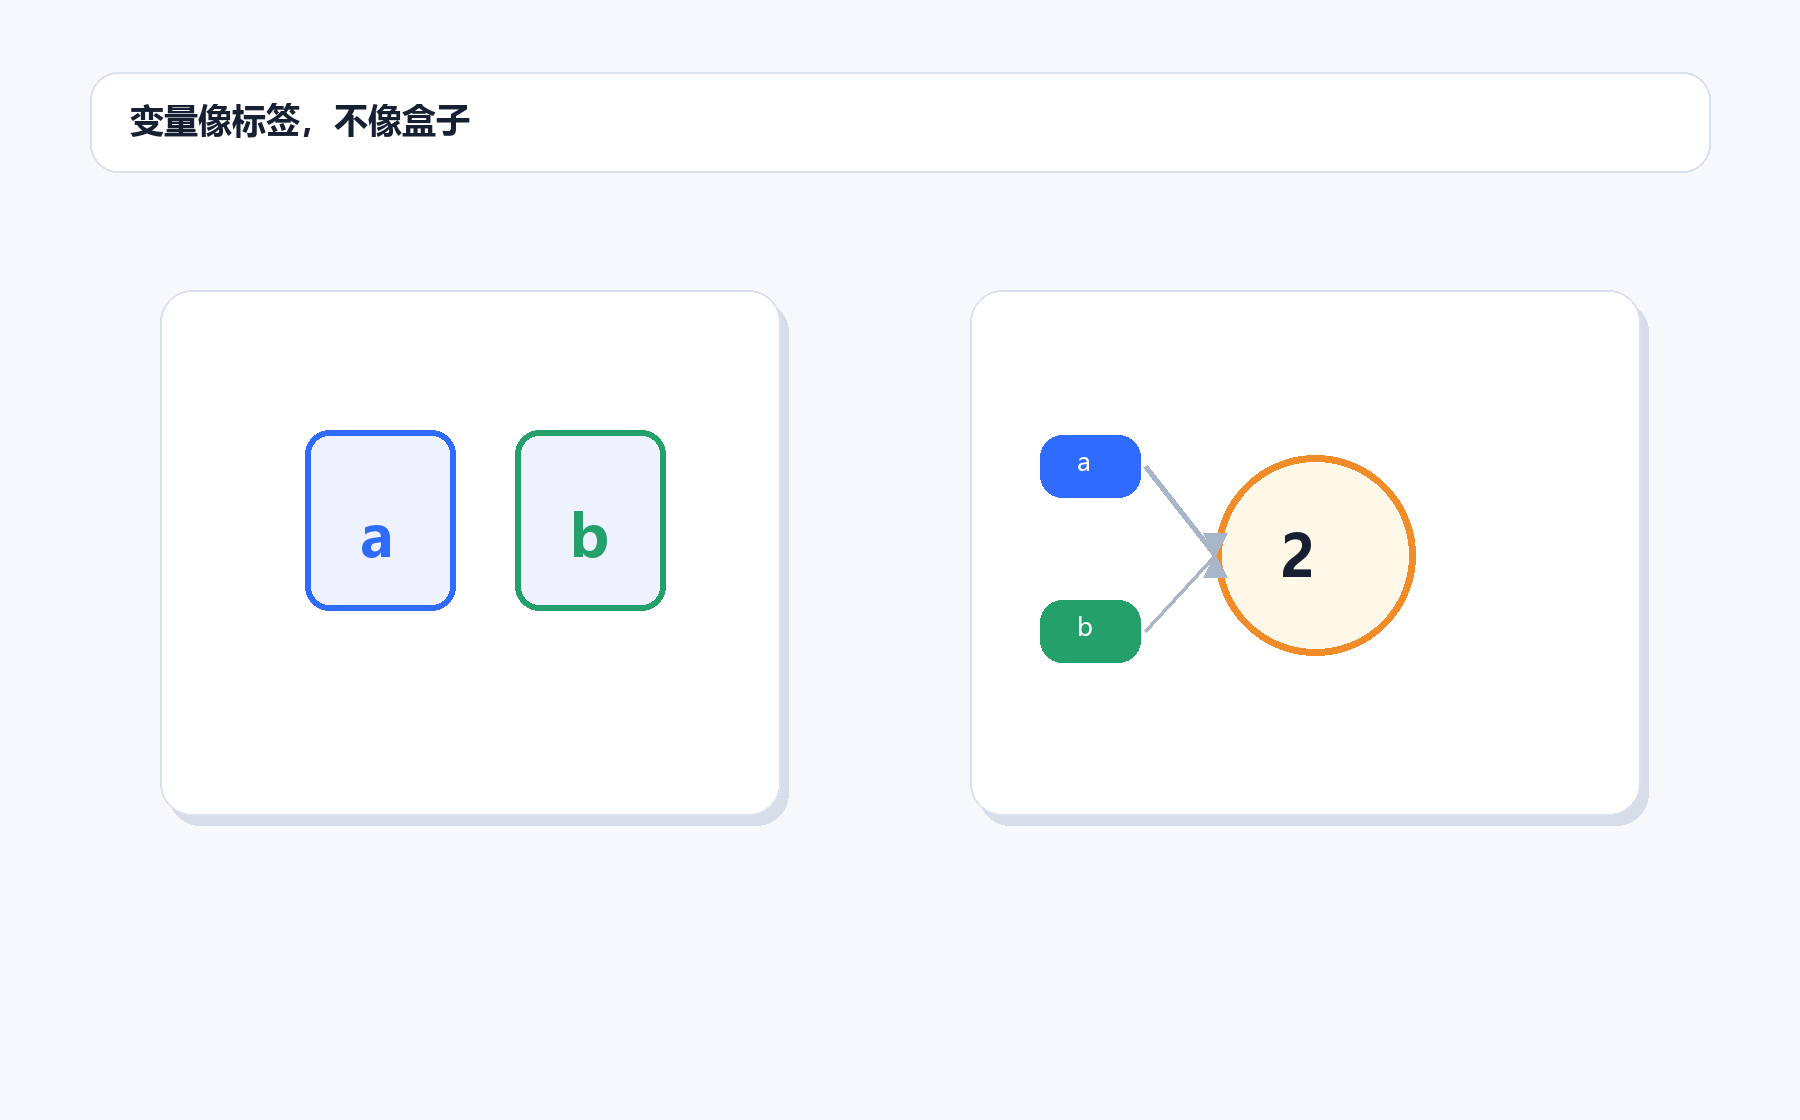
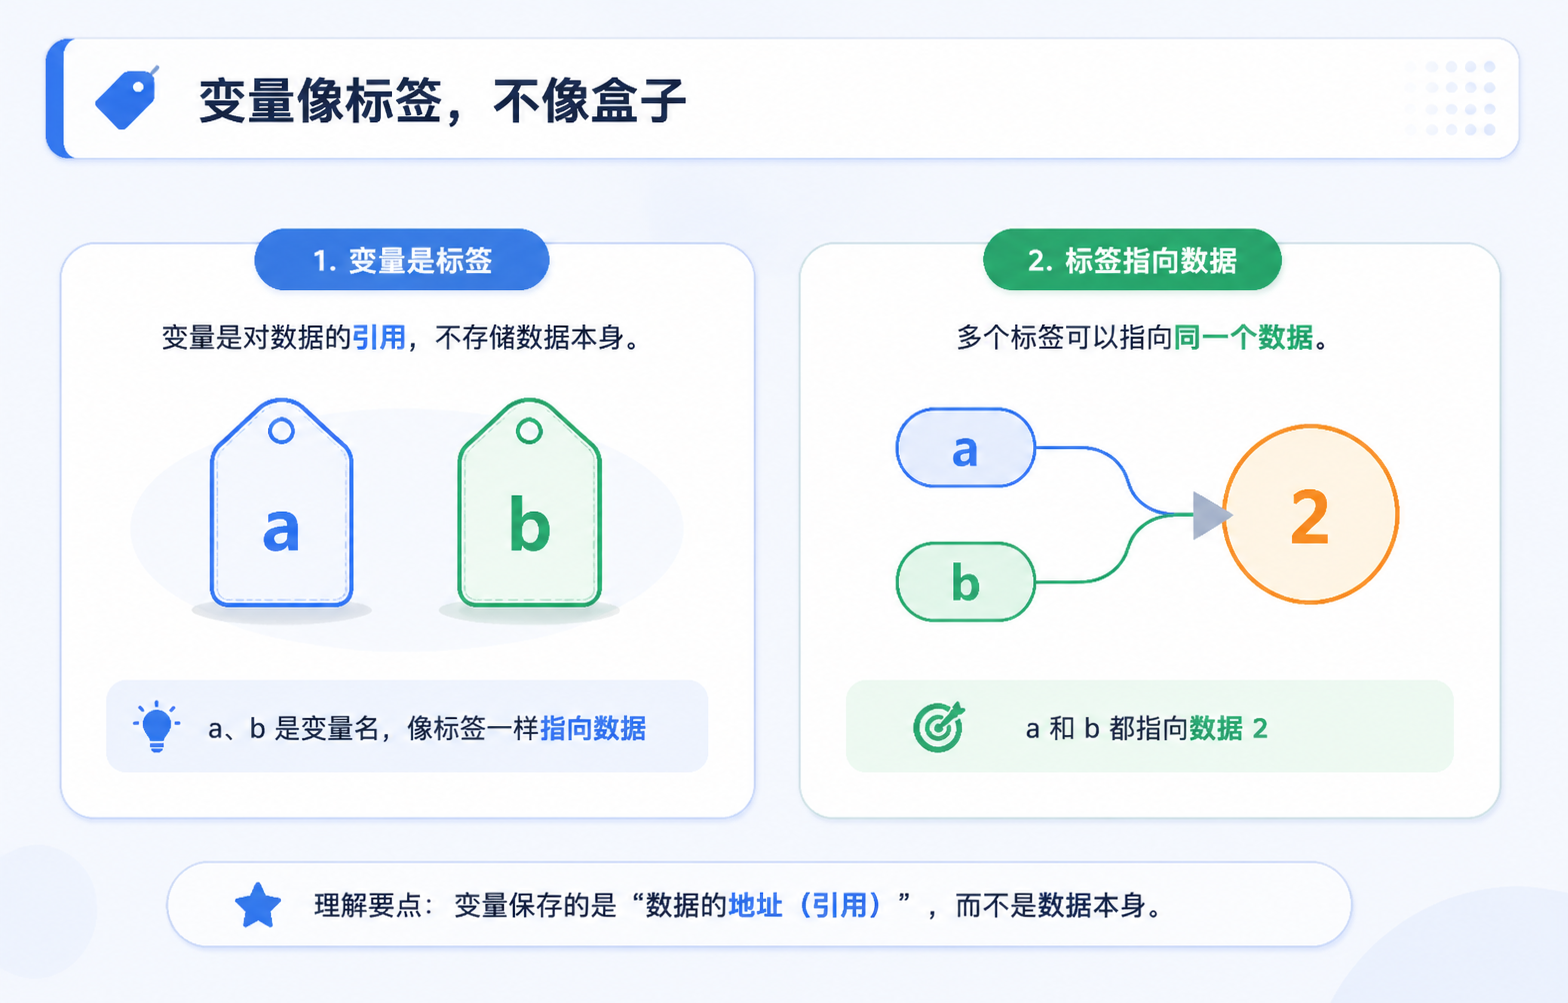
Fix some details.

diff --git a/python_tutorial_ch06/chapters/ch06_data_analysis_visualization.md b/python_tutorial_ch06/chapters/ch06_data_analysis_visualization.md
@@ -185,7 +185,7 @@ William Playfair 早期把价格、工资和时间画成曲线时，做的也是
   <figcaption><strong>图6-S3 Playfair 的时间序列图</strong>：折线图真正表达的不是“把点连起来”，而是让变化从表格里走出来。</figcaption>
 </figure>
 
-### 6.7 仪表盘：让一个比较变清楚
+### 6.7 仪表盘
 
 运行：
 